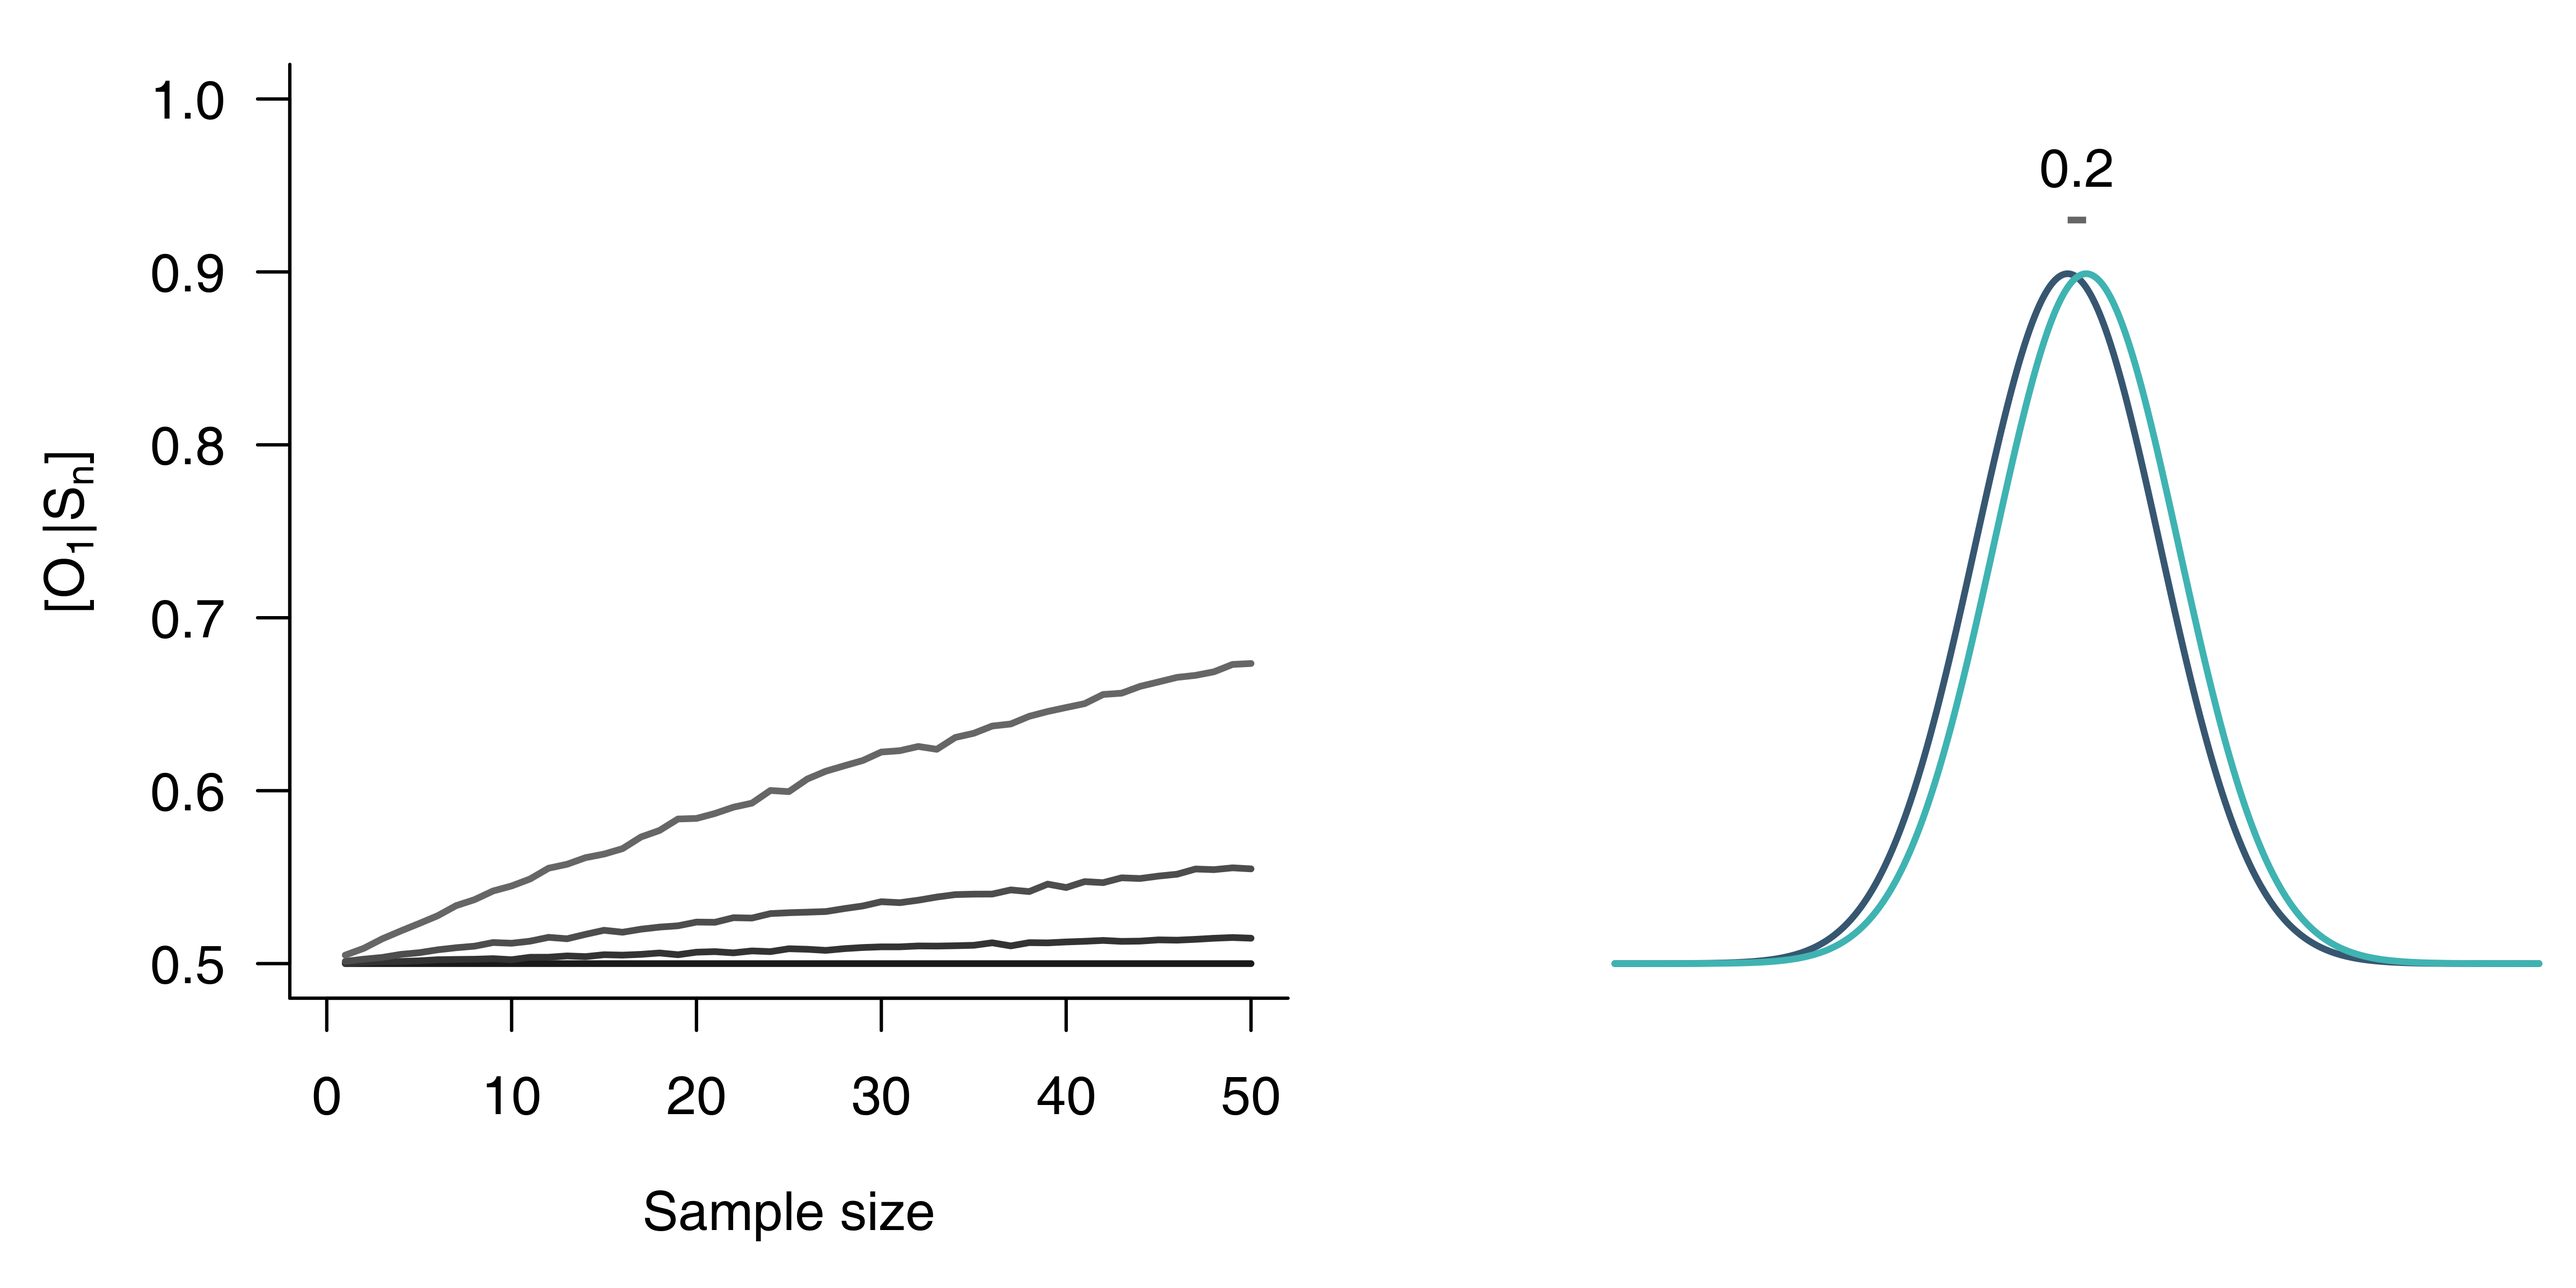
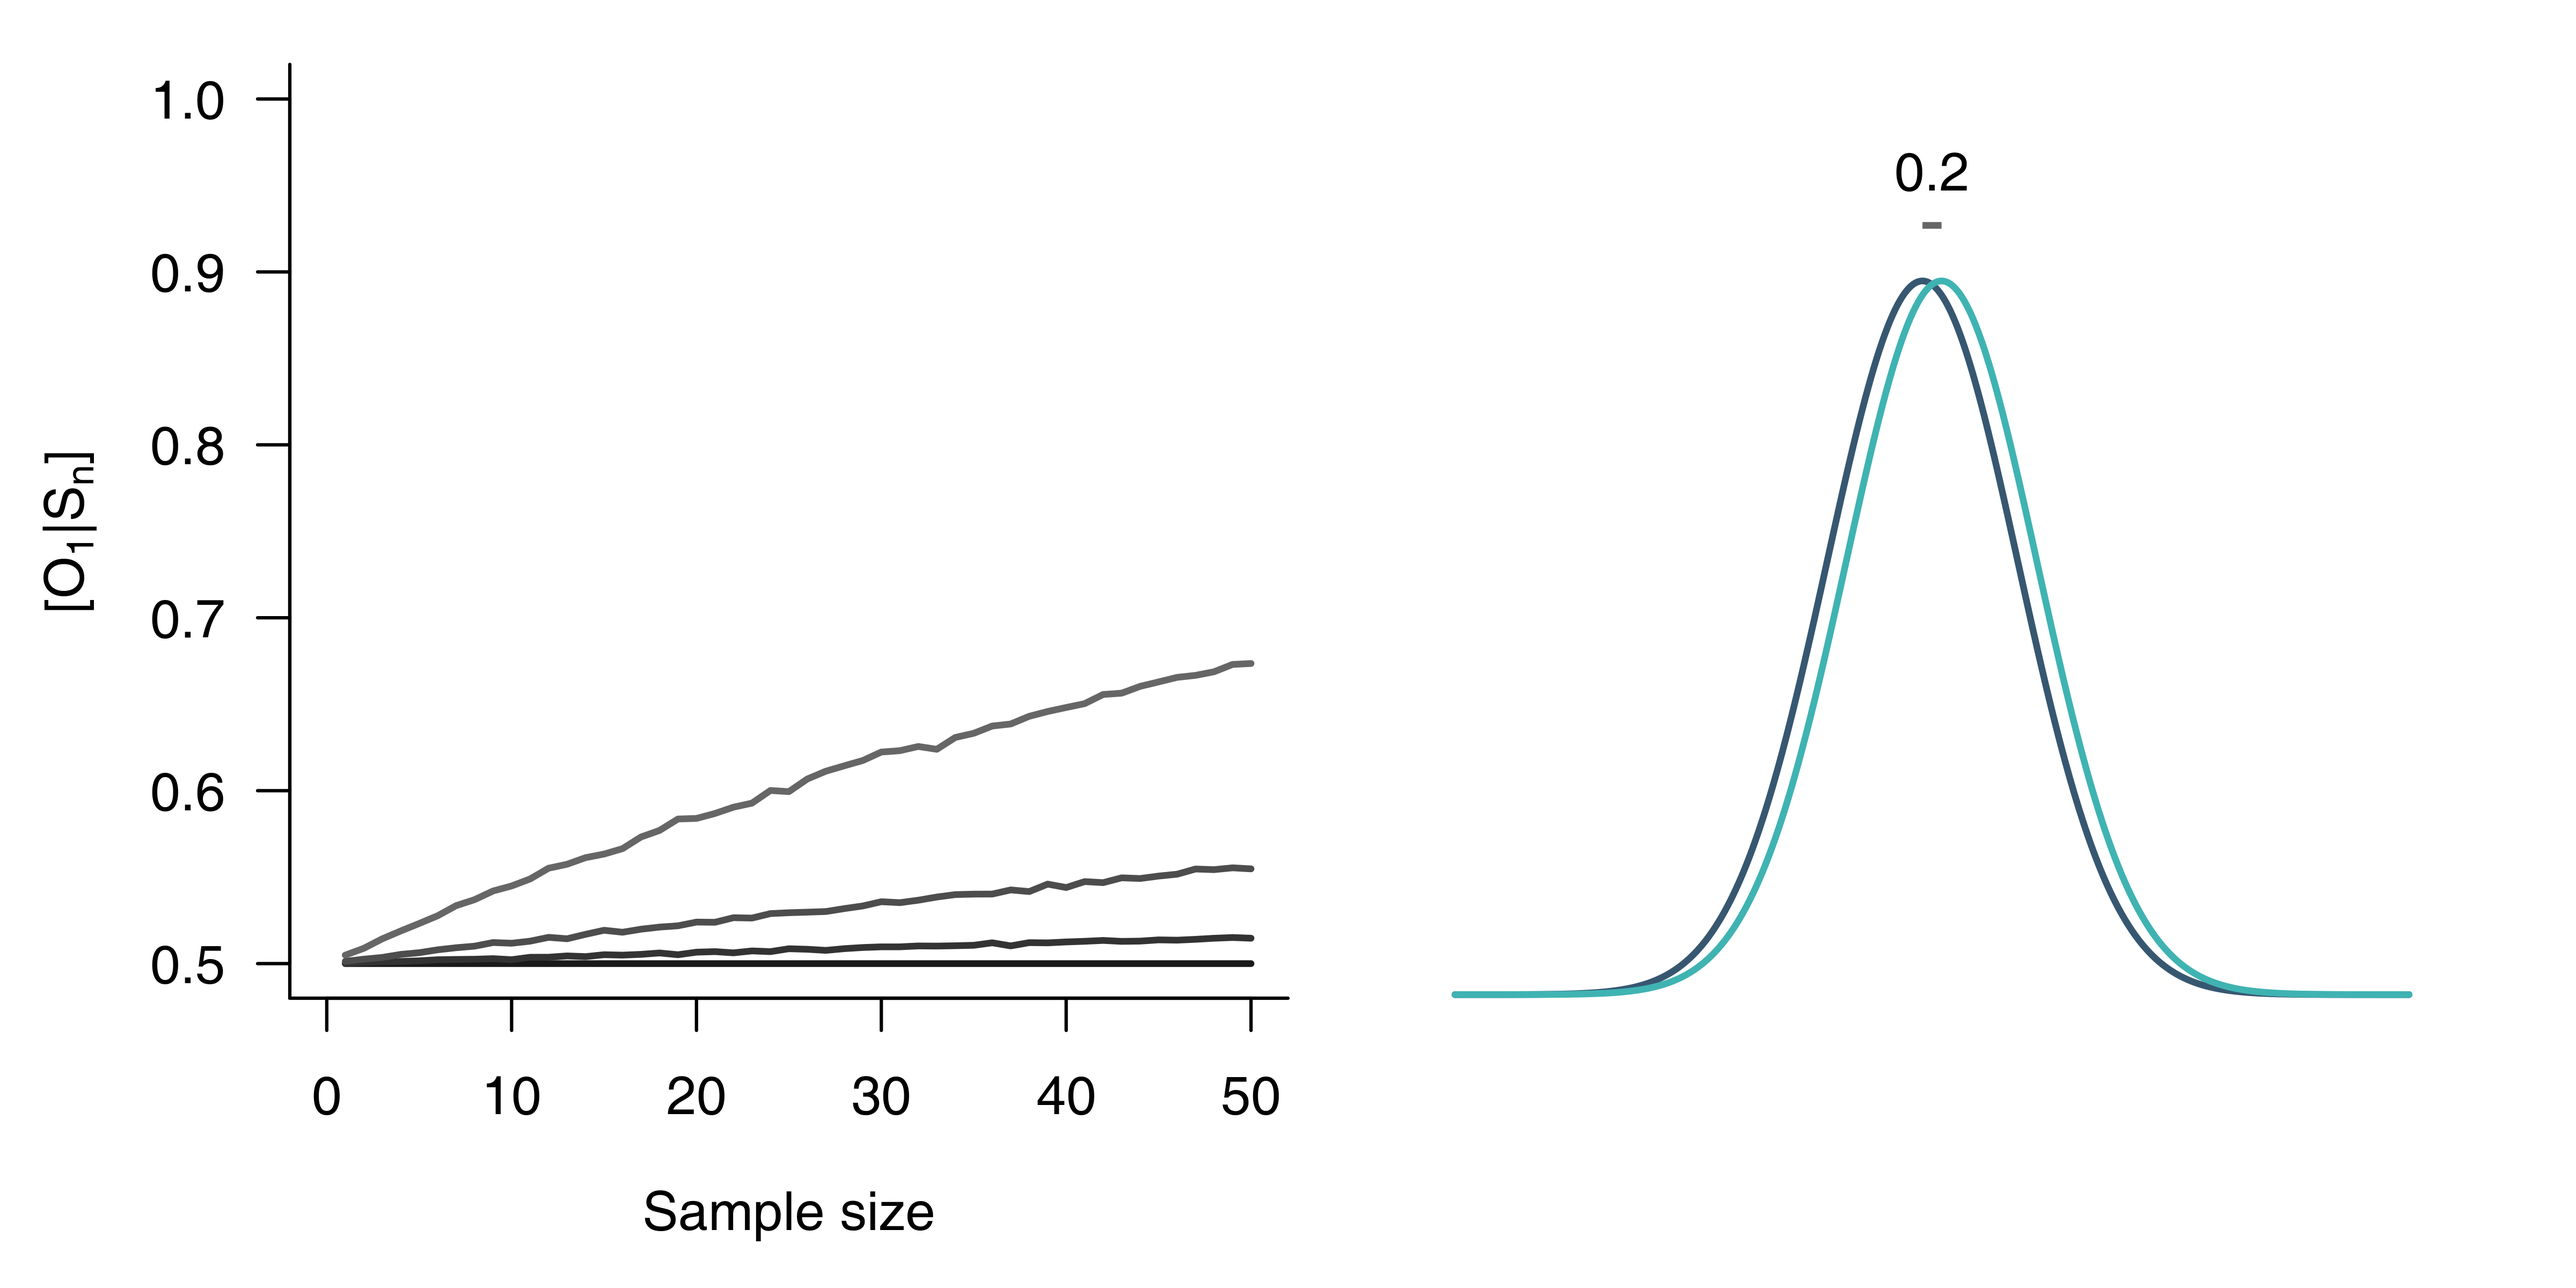
add figSd

diff --git a/index.html b/index.html
@@ -344,6 +344,53 @@ class: inverse, center, middle
 
 
 
+---
+# Results - dissimilarity
+&lt;br&gt;
+
+.center[![:scale 92%](img/FigSd1.png)]
+
+
+---
+# Results - dissimilarity
+&lt;br&gt;
+
+.center[![:scale 92%](img/FigSd2.png)]
+
+---
+# Results - dissimilarity
+&lt;br&gt;
+
+.center[![:scale 92%](img/FigSd3.png)]
+
+---
+# Results - dissimilarity
+&lt;br&gt;
+
+.center[![:scale 92%](img/FigSd4.png)]
+
+
+---
+# Results - dissimilarity
+&lt;br&gt;
+
+.center[![:scale 92%](img/FigSd5.png)]
+
+
+---
+# Results - dissimilarity
+&lt;br&gt;
+
+.center[![:scale 92%](img/FigSd6.png)]
+
+
+---
+# Results - dissimilarity
+&lt;br&gt;
+
+.center[![:scale 92%](img/FigSd7.png)]
+
+
 
 ---
 # Results - dimensionality
@@ -364,10 +411,19 @@ class: inverse, center, middle
 ---
 # Results
 
-### The more the biotracers the better!
+&lt;br&gt;
 
-The curse of dimensionality in
-becomes the blessing of dimensionality.
+#### 1. the more dissimilar the better
+
+#### 2. Any extra biotracer likely brings something new
+
+#### 3. the more the biotracers the better!
+
+&lt;br&gt;
+
+--
+
+##### ![:faic](angle-double-right) The curse of dimensionality becomes the blessing of dimensionality.
 
 
 
@@ -421,66 +477,21 @@ class: inverse, center, middle
 ---
 class: inverse, center, middle
 
-# Applying the framework
-
-## Salmon example
-
-
----
-# Results
-
-![](img/resSalmon.png)
-
-
-
----
-class: inverse, center, middle
-
 # Perspectives
 
 
-
 ---
+# Perspectives
 
-# Modifying text
+&lt;br&gt;
 
+### 1- Quantify robustness
 
-.column[
+### 2- Temporal variations
 
-#### Classes
+### 3- More dimensions (currenlty 3)
 
-normal size ( `\(\LaTeX\)`-friendly terms)
-
-`.huge[huge]` &amp;nbsp; .huge[huge]
-
-`.large[large]` &amp;nbsp; .large[large]
-
-`.small[small]` &amp;nbsp; .small[small]
-
-`.tiny[tiny]` &amp;nbsp; .small[tiny]
-
-]
-
-
-.column[
-
-#### Special class
-
-- `.alert[alert]` .alert[alert]
-
-- `.comment[comment]` .comment[comment]
-
-#### Use remarkjs's macros
-
-- `![:scale 40%](path/to/img.png)` to scale an image
-
-- `![:faic](github)` &amp;nbsp; ![:faic](github)
-
-- `![:acic](github)` &amp;nbsp; ![:acic](orcid)
-
-
-]
-
+### Do not waste data
 
 
 ---
